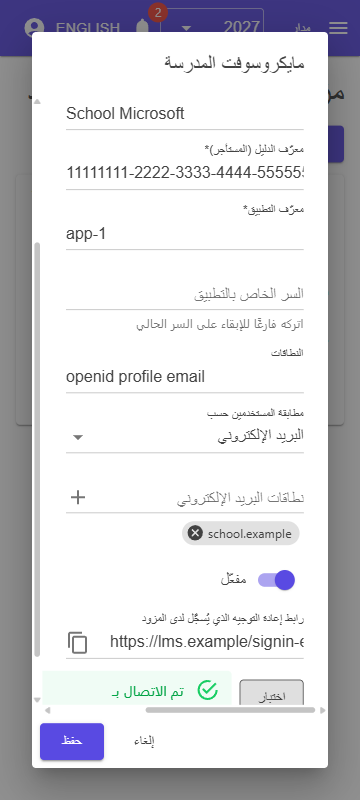
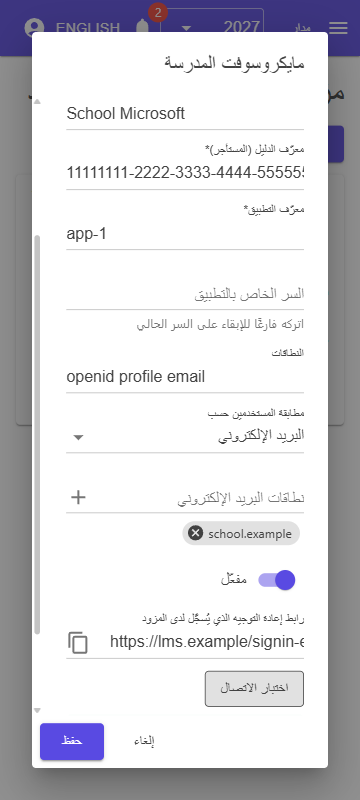
fix(client): wrap the test-connection row at 360 px; slug max 40; failure-path test

diff --git a/tests/Lms.Client.Tests/Pages/Access/IdentityProvidersPageTests.cs b/tests/Lms.Client.Tests/Pages/Access/IdentityProvidersPageTests.cs
@@ -98,6 +98,24 @@ public sealed class IdentityProvidersPageTests : ClientTestContext
     }
 
     [Fact]
+    public async Task Test_connection_failure_shows_the_error()
+    {
+        Culture.Current = new CultureInfo("en");
+        var page = await RenderPageAsync(Permissions.IdentityProviders.View, Permissions.IdentityProviders.Manage);
+        await OpenEditAsync(page);
+        _dialogs.Find("input[data-testid=idp-tenant]").Change("bad-tenant");
+        await _dialogs.Find("[data-testid=dialog-save]").ClickAsync(new());
+        await _dialogs.WaitForAssertionAsync(() => Assert.Single(_providers.Saved));
+
+        await OpenEditAsync(page);
+        await _dialogs.Find("[data-testid=idp-test]").ClickAsync(new());
+
+        var result = await _dialogs.WaitForElementAsync("[data-testid=idp-test-result]");
+        Assert.Contains("Could not reach the provider: discovery document not found", result.TextContent);
+        Assert.Contains("mud-alert-text-error", result.ClassList.Concat(result.QuerySelectorAll("*").SelectMany(e => e.ClassList)));
+    }
+
+    [Fact]
     public async Task Page_hidden_without_IdentityProviders_View()
     {
         Culture.Current = new CultureInfo("en");
